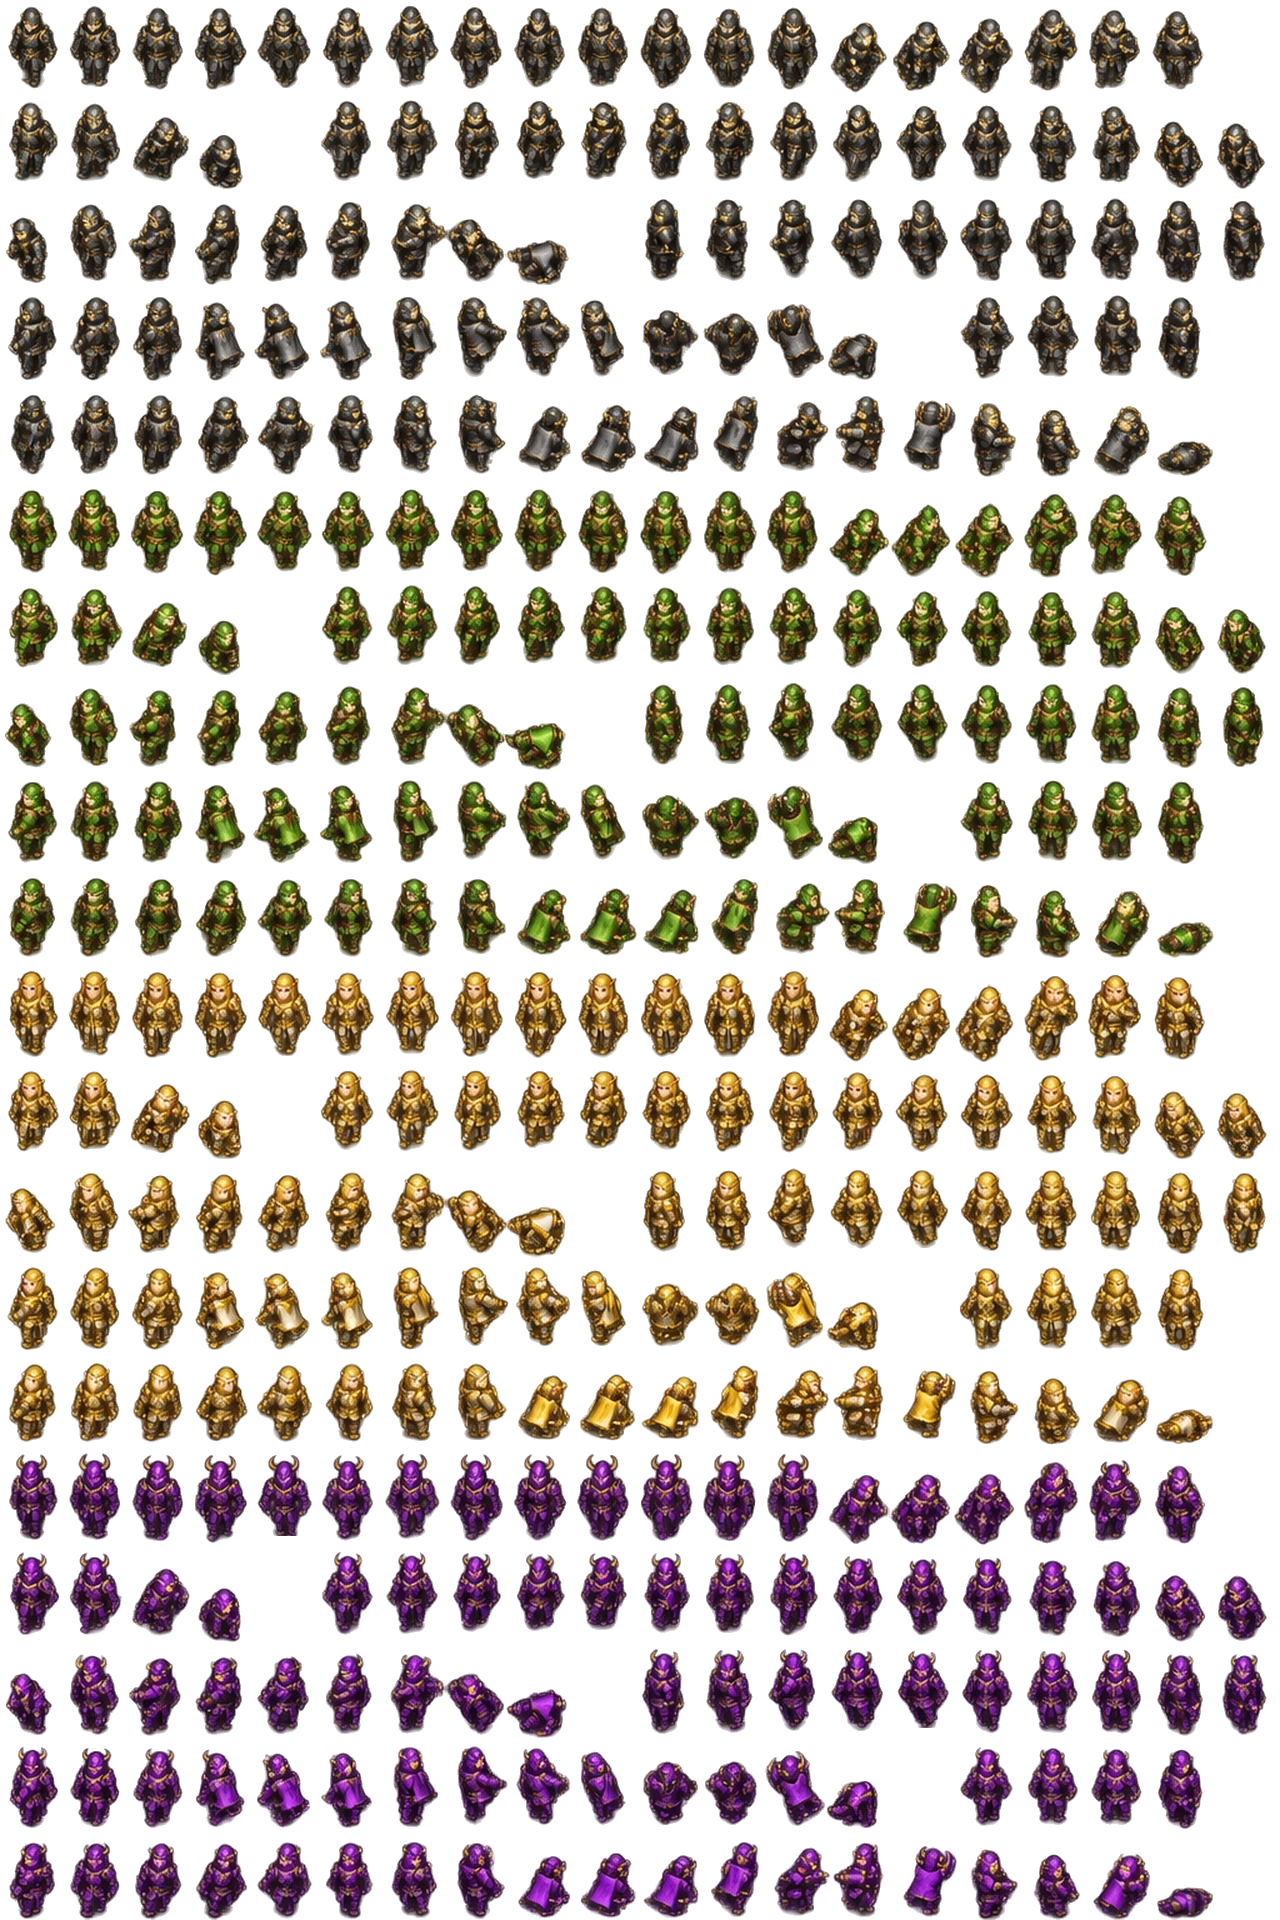
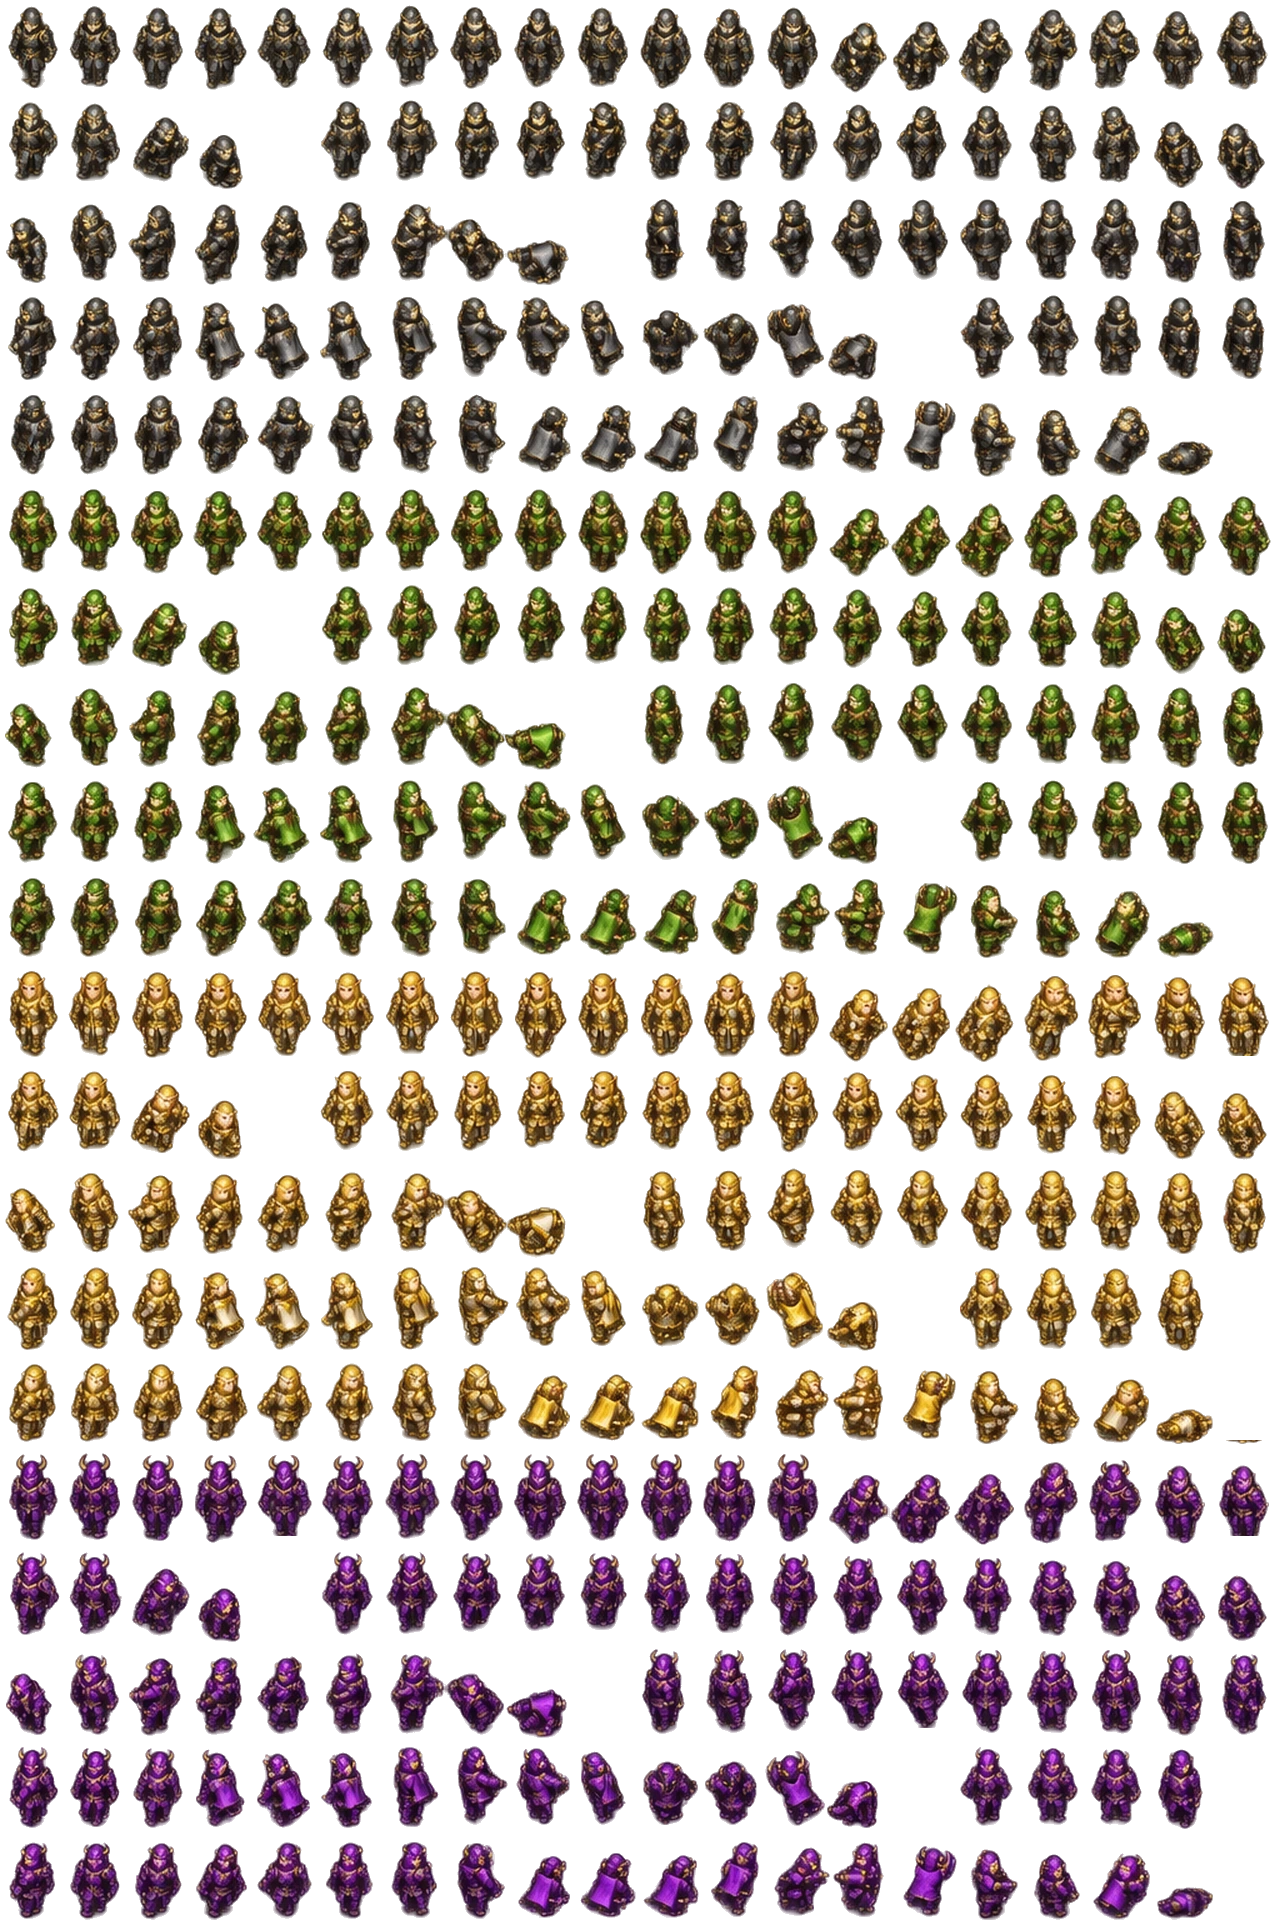
Repair empty sprite frames and simplify help with compact bottom-left spawning HUD

diff --git a/Docs/MEDIEVAL.md b/Docs/MEDIEVAL.md
@@ -17,3 +17,9 @@ The active medieval atlas is `Assets/Medieval/students_hd.webp`, 1280x1920 with 
 The bottom-right HUD shows the exact requested mouse tips, with the recruitment progress bar above and minimap above that. The progress bar reads actual per-team recruitment progress/threshold; owned recruitment tiles and the Green/Orc threshold naturally affect fill speed. Capacity-full and blocked-base labels explain why a recruitment cycle may not produce a unit. No recruitment rules have changed.
 
 HD art prompt: clearer high-resolution remaster of the original medieval atlas, preserving all 400 slots, poses, directions and race colour blocks; improve armor edges, faces, elf ears, orc tusks and demon horns; transparent background. Built-in image generation was used, followed by atlas normalization and WebP encoding.
+
+## Animation and compact HUD repair
+
+Six empty live medieval atlas frames (19,79,119,179,219,319) were replaced with the adjacent valid pose in the same directional sequence. Death-blink frames remain intentionally blank. Both variants use cached filter-clipped atlas textures to prevent sampling neighbouring frames. Regression checks cover all 368 live-state frames.
+
+The spawning panel is now 225x48, bottom-left (75% of the previous width and height), labelled Spawning. Battlefield control tips are hidden and appear first in the concise bulleted help dialog. The minimap is restored to bottom-right.
